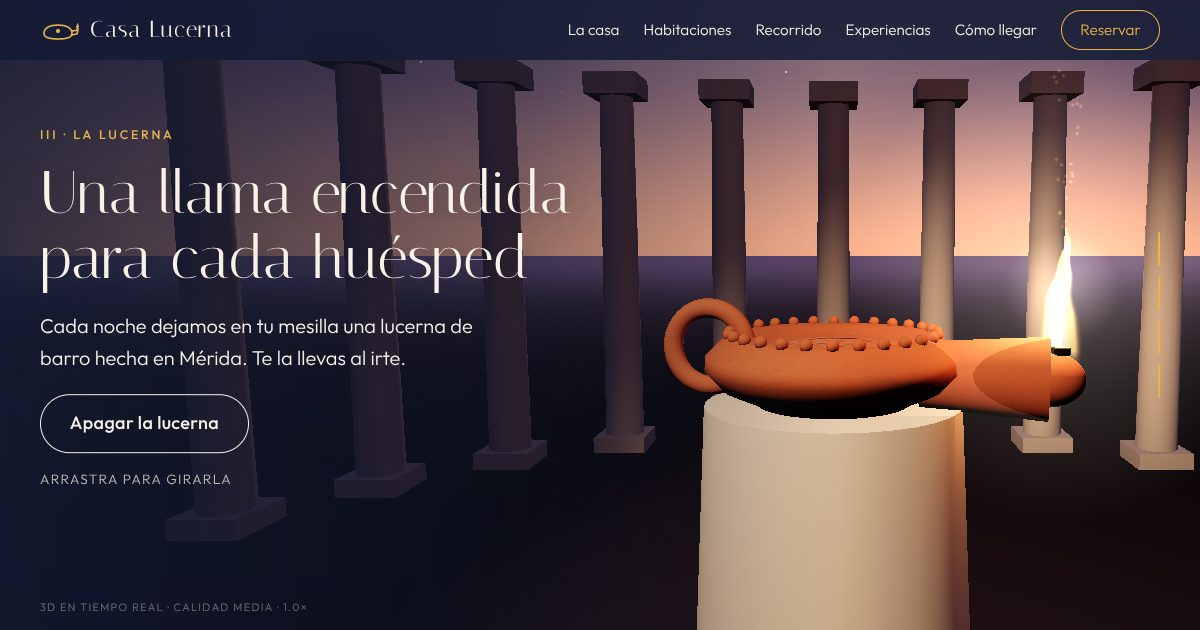
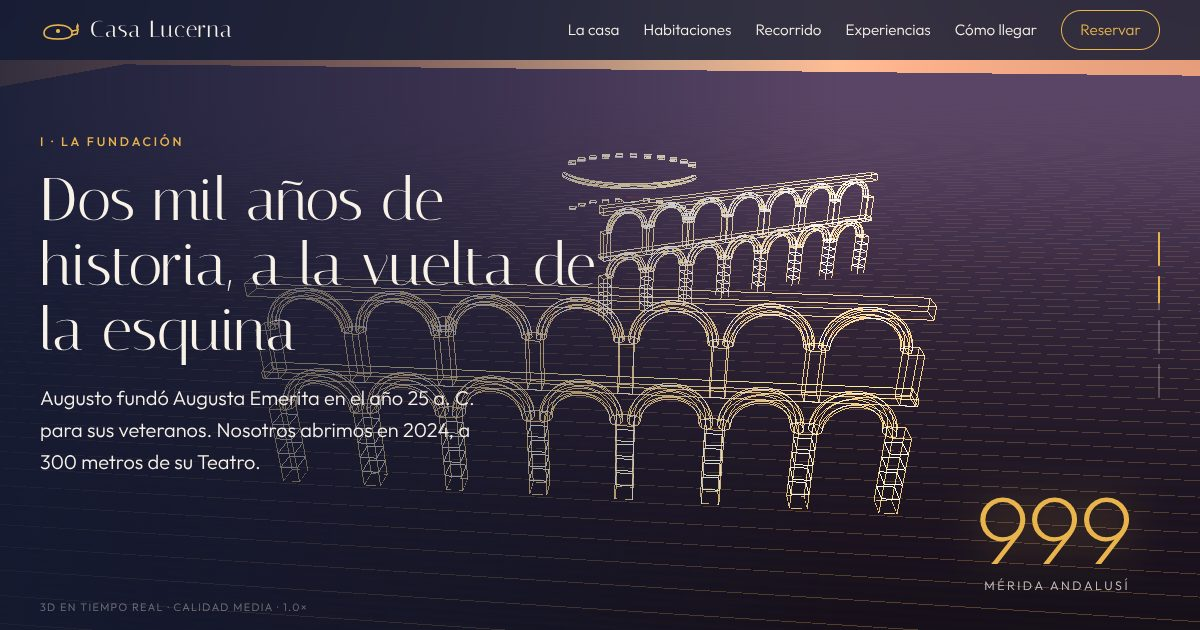
Cambia la animación del inicio a Digital Epoch
Aetheris Voyage ya la usa la demo de floristería. Ahora un escaneo dorado
convierte en piedra el acueducto y el Teatro en alambre mientras un
contador viaja del 25 a. C. a hoy y la cámara baja en grúa a la lucerna.

Claude-Session: https://claude.ai/code/session_017DA2o1hzV9gCFs3vF451Rp

diff --git a/escena.js b/escena.js
@@ -1,13 +1,14 @@
 /*
   Casa Lucerna · escena 3D del inicio (three.js r180, en vendor/)
 
-  Animación «Aetheris Voyage»: al hacer scroll la cámara viaja a través de
-  capas de nubes de atardecer, cruza un arco del acueducto de los Milagros
-  y llega a una lucerna romana encendida delante de las columnas del Teatro.
+  Animación «Digital Epoch»: al hacer scroll un plano de escaneo dorado
+  recorre Mérida del año 25 a. C. a hoy y convierte en piedra los monumentos
+  dibujados en alambre, mientras la cámara baja en grúa sobre el acueducto
+  hasta una lucerna romana encendida delante de las columnas del Teatro.
 
   Todo se genera con código (sin modelos externos):
   - cielo con degradado y estrellas
-  - nubes: sprites con textura dibujada en un lienzo
+  - escaneo: aristas (EdgesGeometry) + plano con shader
   - acueducto y columnas: geometrías simples
   - lucerna: torno (LatheGeometry) + piquera + asa + llama con shader
 */
@@ -132,52 +133,6 @@ function init() {
   ground.position.set(0, -4, -120);
   scene.add(ground);
 
-  /* ---------- Nubes ---------- */
-  function cloudTexture(seed) {
-    const s = 256;
-    const c = document.createElement('canvas');
-    c.width = c.height = s;
-    const g = c.getContext('2d');
-    let r = seed;
-    const rnd = () => ((r = (r * 9301 + 49297) % 233280) / 233280);
-    for (let i = 0; i < 26; i++) {
-      const x = s * (0.22 + rnd() * 0.56);
-      const y = s * (0.35 + rnd() * 0.3);
-      const rad = s * (0.08 + rnd() * 0.18);
-      const grd = g.createRadialGradient(x, y, 0, x, y, rad);
-      grd.addColorStop(0, 'rgba(255,255,255,0.55)');
-      grd.addColorStop(1, 'rgba(255,255,255,0)');
-      g.fillStyle = grd;
-      g.beginPath(); g.arc(x, y, rad, 0, Math.PI * 2); g.fill();
-    }
-    const t = new THREE.CanvasTexture(c);
-    t.colorSpace = THREE.SRGBColorSpace;
-    return t;
-  }
-  const cloudTex = [cloudTexture(7), cloudTexture(42), cloudTexture(311)];
-  const clouds = [];
-  const cloudCount = tier === 'alta' ? 90 : 55;
-  const tintNear = new THREE.Color(0xf2b294);
-  const tintHigh = new THREE.Color(0x8d76b0);
-  for (let i = 0; i < cloudCount; i++) {
-    const z = 2 - Math.random() * 125;
-    if (Math.abs(z - AQUEDUCT_Z) < 6) continue;           // deja ver el arco
-    const side = Math.random() < 0.5 ? -1 : 1;
-    const x = side * (3 + Math.random() * 16);
-    const y = -2.5 + Math.random() * 9;
-    const mat = new THREE.SpriteMaterial({
-      map: cloudTex[i % 3], transparent: true, depthWrite: false, opacity: 0.8,
-      color: tintNear.clone().lerp(tintHigh, THREE.MathUtils.clamp((y + 2) / 9, 0, 1)),
-    });
-    const sp = new THREE.Sprite(mat);
-    const sc = 6 + Math.random() * 10;
-    sp.scale.set(sc * 1.6, sc, 1);
-    sp.position.set(x, y, z);
-    sp.userData = { base: (z > -14 ? 0.22 : 0.32) + Math.random() * 0.3, drift: (Math.random() - 0.5) * 0.25 };
-    scene.add(sp);
-    clouds.push(sp);
-  }
-
   /* ---------- Acueducto (dos pisos de arcos) ---------- */
   const granito = new THREE.MeshStandardMaterial({ color: COLORES.granito, roughness: 0.9 });
   const ladrillo = new THREE.MeshStandardMaterial({ color: 0x9c4f36, roughness: 0.85 });
@@ -255,6 +210,49 @@ function init() {
   const plinth = new THREE.Mesh(new THREE.CylinderGeometry(1.1, 1.25, 3.2, 32), marmol);
   plinth.position.set(0, -2.75, LAMP_Z);
   scene.add(plinth);
+
+  /* ---------- Digital Epoch: monumentos en alambre que el escaneo vuelve sólidos ---------- */
+  const lineMat = new THREE.LineBasicMaterial({ color: COLORES.oro, transparent: true, blending: THREE.AdditiveBlending, depthWrite: false, fog: false });
+  const pieces = [];
+  scene.updateMatrixWorld(true);
+  const wp = new THREE.Vector3();
+  for (const root of [aqueduct, far, theatre, plinth]) {
+    root.traverse(o => {
+      if (!o.isMesh) return;
+      o.material = o.material.clone();
+      o.material.transparent = true;
+      const line = new THREE.LineSegments(new THREE.EdgesGeometry(o.geometry, 30), lineMat.clone());
+      o.add(line);
+      o.getWorldPosition(wp);
+      pieces.push({ mesh: o, line, z: wp.z, r: -1 });
+    });
+  }
+  const grid = new THREE.GridHelper(320, 160, COLORES.oro, COLORES.oro);
+  grid.material.transparent = true;
+  grid.material.opacity = 0.3;
+  grid.material.depthWrite = false;
+  grid.position.set(0, -3.98, -100);
+  scene.add(grid);
+  // plano de escaneo: velo dorado con borde brillante
+  const scan = new THREE.Mesh(
+    new THREE.PlaneGeometry(120, 34),
+    new THREE.ShaderMaterial({
+      transparent: true, depthWrite: false, blending: THREE.AdditiveBlending, side: THREE.DoubleSide, fog: false,
+      uniforms: { uA: { value: 1 } },
+      vertexShader: `varying vec2 vUv; void main(){ vUv = uv; gl_Position = projectionMatrix * modelViewMatrix * vec4(position,1.); }`,
+      fragmentShader: `uniform float uA; varying vec2 vUv;
+        void main(){
+          float edge = smoothstep(0.0, 0.5, 1.0 - abs(vUv.x - 0.5) * 2.0);
+          float lines = 0.5 + 0.5 * step(0.5, fract(vUv.y * 60.0));
+          float a = (0.06 + 0.05 * lines) * (1.0 - vUv.y) * edge * uA;
+          gl_FragColor = vec4(vec3(1.0, 0.75, 0.32) * a * 2.0, a);
+        }`,
+    })
+  );
+  scan.position.y = 13;
+  const scanLine = new THREE.Mesh(new THREE.BoxGeometry(120, 0.06, 0.06), new THREE.MeshBasicMaterial({ color: 0xffd98a, fog: false }));
+  scanLine.position.y = -3.9;
+  scene.add(scan, scanLine);
 
   /* ---------- Lucerna ---------- */
   const lampKey = new THREE.SpotLight(0xffd6a8, 0, 30, 0.5, 0.6, 1.2);
@@ -434,17 +432,13 @@ function init() {
   const lampPos = new THREE.Vector3(0.35, -0.4, LAMP_Z);   // centro visual de la lucerna (incluye la piquera)
 
   function cameraAt(p, out, look) {
-    const t = ease(THREE.MathUtils.clamp(p / 0.86, 0, 1));
-    const z = THREE.MathUtils.lerp(8, CAM_END, t);
-    let amp = 1 - sstep(0.62, 0.86, p);
-    amp *= sstep(3, 16, Math.abs(z - AQUEDUCT_Z));       // centrado al cruzar el arco
-    const x = Math.sin(p * Math.PI * 2.2) * 2.4 * amp;
-    const yEnd = 0.25;
-    const y = THREE.MathUtils.lerp(0.4 + Math.sin(p * Math.PI * 3) * 1.2 * amp, yEnd, sstep(0.7, 0.9, p));
+    const u = ease(THREE.MathUtils.clamp(p / 0.86, 0, 1));
+    const z = THREE.MathUtils.lerp(22, CAM_END, u);
+    const y = THREE.MathUtils.lerp(30, 0.25, sstep(0.45, 1, u));   // pasa por encima del acueducto
+    const x = Math.sin(u * Math.PI) * 6;
     out.set(x, y, z);
-    // mira hacia delante y, al final, a la lucerna
-    tmpLook.set(x * 0.4, y * 0.6, z - 12);
-    look.copy(tmpLook).lerp(lampPos, sstep(0.66, 0.88, p));
+    tmpLook.set(0, 3, z - 60);
+    look.copy(tmpLook).lerp(lampPos, sstep(0.55, 0.9, p));
   }
 
   /* ---------- Interacción ---------- */
@@ -516,12 +510,19 @@ function init() {
     sunLight.intensity = THREE.MathUtils.lerp(2.2, 0.35, sstep(0.2, 0.9, p));
     hemi.intensity = THREE.MathUtils.lerp(1.1, 0.45, sstep(0.3, 0.95, p));
 
-    // nubes: se desvanecen al acercarse y derivan despacio
-    for (const c of clouds) {
-      const d = c.position.z - camera.position.z;      // negativo = delante
-      const near = 1 - sstep(-9, -1.5, d);               // 1 cuando está lejos, 0 al tocarla
-      c.material.opacity = c.userData.base * near;
-      c.position.x += c.userData.drift * dt;
+    // escaneo: del año 25 a. C. a hoy, los monumentos pasan de alambre a piedra
+    const scanZ = THREE.MathUtils.lerp(14, LAMP_Z - 14, sstep(0.02, 0.8, p));
+    scan.position.z = scanLine.position.z = scanZ;
+    scan.material.uniforms.uA.value = 1 - sstep(0.75, 0.86, p);
+    scanLine.visible = p < 0.84;
+    grid.material.opacity = 0.32 * (1 - sstep(0.5, 0.9, p));
+    for (const pc of pieces) {
+      const r = 1 - sstep(pc.z - 4, pc.z + 4, scanZ);
+      if (Math.abs(r - pc.r) < 0.004) continue;
+      pc.r = r;
+      pc.mesh.material.opacity = r;
+      pc.mesh.material.depthWrite = r > 0.5;
+      pc.line.material.opacity = 0.85 * (1 - r) + 0.06;
     }
 
     // lucerna: gira sola y con el dedo

diff --git a/index.html b/index.html
@@ -104,7 +104,7 @@
   </header>
 
   <main id="contenido">
-    <!-- 1. Inicio: viaje de cámara entre nubes hasta la lucerna (escena.js) -->
+    <!-- 1. Inicio: escaneo del año 25 a. C. a hoy y grúa de cámara hasta la lucerna (escena.js) -->
     <section id="inicio" class="voyage" aria-label="Inicio" data-voyage>
       <div class="voyage__stage">
         <canvas class="voyage__canvas" data-scene aria-hidden="true"></canvas>
@@ -123,9 +123,9 @@
             </div>
           </div>
           <div class="voyage__step" data-step="1">
-            <p class="eyebrow">I · El viaje</p>
-            <h2>Atraviesa dos mil años de cielo extremeño</h2>
-            <p class="lead">Las mismas puestas de sol rosadas que veían los legionarios de Augusto, ahora desde nuestra terraza.</p>
+            <p class="eyebrow">I · La fundación</p>
+            <h2>Dos mil años de historia, a la vuelta de la esquina</h2>
+            <p class="lead">Augusto fundó Augusta Emerita en el año 25 a. C. para sus veteranos. Nosotros abrimos en 2024, a 300 metros de su Teatro.</p>
           </div>
           <div class="voyage__step" data-step="2">
             <p class="eyebrow">II · Los arcos</p>
@@ -139,6 +139,11 @@
             <button class="btn btn--ghost" type="button" data-flame-toggle aria-pressed="true">Apagar la lucerna</button>
             <p class="hint hint--drag">Arrastra para girarla</p>
           </div>
+        </div>
+
+        <div class="epoch" aria-hidden="true">
+          <span class="epoch__year" data-year>25 a. C.</span>
+          <span class="epoch__era" data-era>Fundación de Augusta Emerita</span>
         </div>
 
         <ol class="voyage__progress" aria-hidden="true">

diff --git a/style.css b/style.css
@@ -150,6 +150,17 @@ p { margin: 0 0 1em; }
 .hint span { display: inline-block; animation: bob 1.8s ease-in-out infinite; }
 .hint--drag { margin-top: 1rem; }
 @keyframes bob { 50% { transform: translateY(5px); } }
+.epoch {
+  position: absolute; z-index: 2; right: calc(var(--gutter) + 30px); bottom: 34px; text-align: right;
+  display: grid; gap: 4px; pointer-events: none; transition: opacity .6s var(--ease);
+}
+.epoch__year {
+  font-family: var(--f-text); font-weight: 200; font-size: clamp(3rem, 8vw, 7.5rem); line-height: .9;
+  letter-spacing: -.05em; font-variant-numeric: tabular-nums; color: var(--oro);
+  text-shadow: 0 0 40px rgba(233, 180, 76, .45);
+}
+.epoch__era { font-size: .78rem; letter-spacing: .2em; text-transform: uppercase; opacity: .8; }
+.epoch.is-done { opacity: .25; }
 .voyage__progress {
   position: absolute; z-index: 2; right: var(--gutter); top: 50%; transform: translateY(-50%);
   list-style: none; margin: 0; padding: 0; display: grid; gap: 10px;
@@ -167,6 +178,9 @@ p { margin: 0 0 1em; }
   .voyage__progress { top: auto; bottom: auto; top: 96px; transform: none; right: 12px; }
   .voyage__progress li { height: 22px; }
   .voyage__quality { display: none; }
+  .epoch { right: auto; left: var(--gutter); top: 96px; bottom: auto; text-align: left; }
+  .epoch__year { font-size: clamp(2.6rem, 13vw, 4rem); }
+  .epoch.is-done { opacity: 0; }
 }
 @media (max-height: 520px) and (orientation: landscape) {
   .voyage__step h1, .voyage__step h2 { font-size: 2rem; margin-bottom: .6rem; }

diff --git a/script.js b/script.js
@@ -90,7 +90,16 @@
       const f = (p - LIMITES[i]) / (LIMITES[i + 1] - LIMITES[i]);
       b.style.setProperty('--p', Math.min(1, Math.max(0, f)).toFixed(3));
     });
+    // contador de años: del 25 a. C. a hoy
+    const k = Math.min(1, p / 0.8);
+    const yr = Math.round(-25 + (HOY + 25) * (k < 0.5 ? 2 * k * k : 1 - Math.pow(-2 * k + 2, 2) / 2));
+    yearEl.textContent = yr < 0 ? `${-yr} a. C.` : yr === 0 ? '1 d. C.' : String(yr);
+    eraEl.textContent = (ERAS.find(e => yr < e[0]) || ERAS[ERAS.length - 1])[1];
+    epochEl.classList.toggle('is-done', p > 0.85);
   }
+  const HOY = new Date().getFullYear();
+  const ERAS = [[0, 'Fundación de Augusta Emerita'], [409, 'Capital de Lusitania'], [713, 'Mérida visigoda'], [1230, 'Mérida andalusí'], [1890, 'Encomienda de Santiago'], [1993, 'Se construye Casa Lucerna'], [2024, 'Patrimonio de la Humanidad'], [9999, 'Hoy · Casa Lucerna']];
+  const yearEl = $('[data-year]'), eraEl = $('[data-era]'), epochEl = $('.epoch');
   addEventListener('scroll', onVoyage, { passive: true });
   addEventListener('resize', onVoyage);
   onVoyage();

diff --git a/README.md b/README.md
@@ -1,6 +1,6 @@
 # Casa Lucerna · hotel boutique en Mérida (concepto 3D)
 
-Web de un hotel boutique **ficticio** de 16 habitaciones junto al Teatro Romano de Mérida. Es una demo de la tarifa *Web interactiva 3D (desde 1.690 €)* del portfolio: al hacer scroll la cámara viaja entre nubes de atardecer, cruza un arco del acueducto de los Milagros y llega a una lucerna romana encendida, que se puede girar con el dedo y apagar.
+Web de un hotel boutique **ficticio** de 16 habitaciones junto al Teatro Romano de Mérida. Es una demo de la tarifa *Web interactiva 3D (desde 1.690 €)* del portfolio: al hacer scroll un contador viaja del año 25 a. C. a hoy mientras un escaneo dorado convierte en piedra el acueducto y el Teatro, dibujados en alambre, y la cámara baja en grúa hasta una lucerna romana encendida, que se puede girar con el dedo y apagar.
 
 Web publicada: https://danielduranmoya-spec.github.io/web-demo-hotel/
 
@@ -9,7 +9,7 @@ web-demo-hotel/
 ├── index.html        ← estructura, textos, SEO (meta, Open Graph, JSON-LD Hotel y FAQ)
 ├── style.css         ← estilos: colores y tipografías al principio, en :root
 ├── script.js         ← menú, habitaciones, vídeo interactivo, reserva por WhatsApp, cookies
-├── escena.js         ← escena 3D con three.js: cielo, nubes, acueducto, Teatro y lucerna
+├── escena.js         ← escena 3D con three.js: cielo, escaneo, acueducto, Teatro y lucerna
 ├── vendor/           ← three.js r180 (licencia MIT), servido desde la propia web
 ├── media/            ← vídeo del recorrido (mp4 + webm) y su póster
 ├── img/og.jpg        ← imagen para compartir en redes
@@ -22,15 +22,15 @@ web-demo-hotel/
 
 - Tipografías: **Italiana** (titulares) y **Outfit** (texto y cifras).
 - Paleta: azul noche `#141B33`, terracota rosada `#D98E73`, oro de lucerna `#E9B44C`, cal `#F7F1E8`.
-- Animación de entrada inspirada en *Aetheris Voyage* de motionsites.ai: viaje de cámara en profundidad a través de capas de nubes con parallax.
+- Animación de entrada inspirada en *Digital Epoch* de motionsites.ai: contador de épocas y plano de escaneo que materializa los monumentos.
 
 ## Qué hace la escena 3D
 
-1. **Inicio**: atardecer rosado sobre Mérida. Al bajar, la cámara atraviesa las nubes (que se desvanecen al tocarlas) y anochece poco a poco: salen las estrellas.
-2. **Los arcos**: la cámara pasa por el arco central de un acueducto de dos pisos de granito y ladrillo, con nido de cigüeña.
+1. **Inicio**: Mérida al atardecer vista desde el aire, con el acueducto y el Teatro dibujados en alambre dorado sobre una cuadrícula. Abajo a la derecha (arriba en móvil) un contador marca el año 25 a. C.
+2. **Escaneo**: al bajar, un plano de luz recorre la ciudad y cada pieza que cruza pasa de alambre a granito, ladrillo o mármol. El contador avanza por las épocas (Lusitania, visigoda, andalusí…) hasta hoy, anochece y salen las estrellas. La cámara pasa por encima del acueducto y baja en grúa.
 3. **La lucerna**: llega a una lucerna de barro torneada delante de las columnas del Teatro. La llama es un shader, ilumina las columnas y suelta chispas. Se gira arrastrando y el botón la apaga o la enciende.
 
-Todo está hecho con código, sin modelos externos. La calidad se ajusta sola (más nubes y antialiasing en ordenador, menos en móvil, y baja la resolución si el dispositivo va lento). No se dibuja cuando está fuera de pantalla. Sin WebGL se ve una ilustración de la lucerna; con *movimiento reducido* la cámara sigue el scroll sin inercia y la llama no parpadea.
+Todo está hecho con código, sin modelos externos. La calidad se ajusta sola (más estrellas y antialiasing en ordenador, menos en móvil, y baja la resolución si el dispositivo va lento). No se dibuja cuando está fuera de pantalla. Sin WebGL se ve una ilustración de la lucerna; con *movimiento reducido* la cámara sigue el scroll sin inercia y la llama no parpadea.
 
 ## Vídeo interactivo
 
